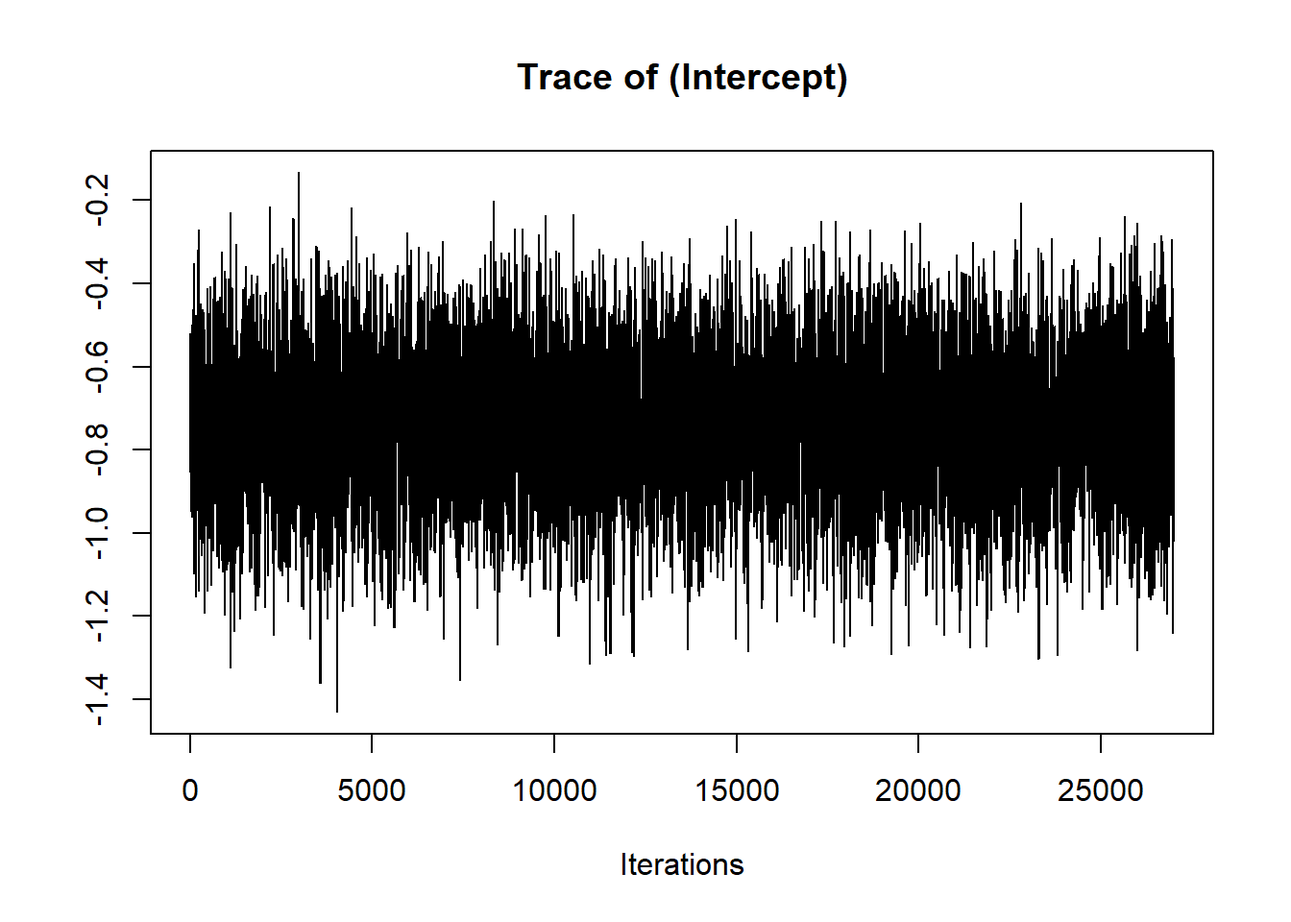
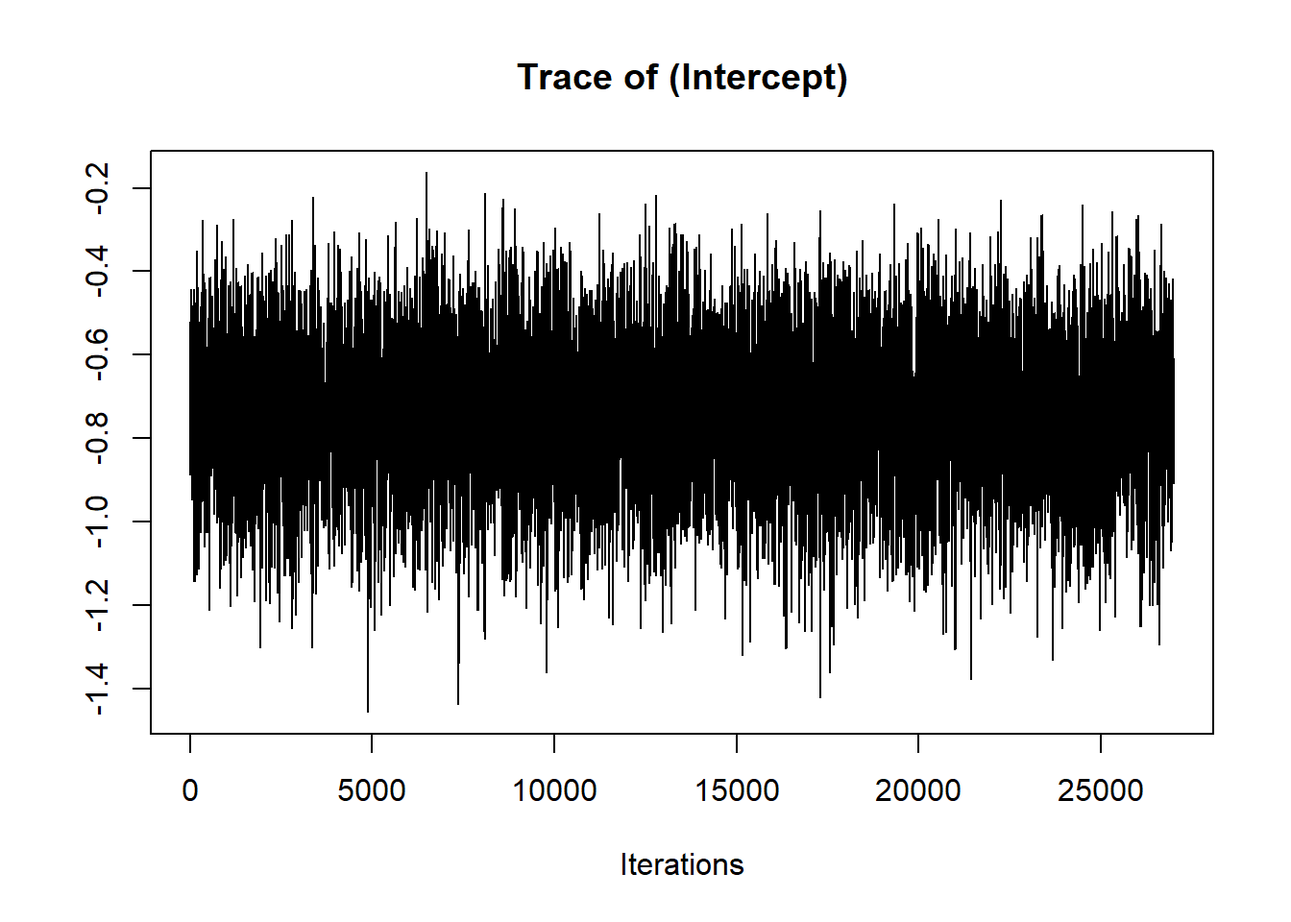
Cuatro

diff --git a/docs/Clase9.html b/docs/Clase9.html
@@ -95,9 +95,57 @@ pre > code.sourceCode > span > a:first-child::before { text-decoration: underlin
 </header>
 
 <div class="tabset-margin-container"></div><div class="panel-tabset">
-<ul class="nav nav-tabs" role="tablist"><li class="nav-item" role="presentation"><a class="nav-link active" id="tabset-2-1-tab" data-bs-toggle="tab" data-bs-target="#tabset-2-1" role="tab" aria-controls="tabset-2-1" aria-selected="true" href="">spAbundance</a></li><li class="nav-item" role="presentation"><a class="nav-link" id="tabset-2-2-tab" data-bs-toggle="tab" data-bs-target="#tabset-2-2" role="tab" aria-controls="tabset-2-2" aria-selected="false" href="">spOccupancy</a></li></ul>
+<ul class="nav nav-tabs" role="tablist"><li class="nav-item" role="presentation"><a class="nav-link active" id="tabset-2-1-tab" data-bs-toggle="tab" data-bs-target="#tabset-2-1" role="tab" aria-controls="tabset-2-1" aria-selected="true" href="">Inferencia frecuentista versus bayesiana</a></li><li class="nav-item" role="presentation"><a class="nav-link" id="tabset-2-2-tab" data-bs-toggle="tab" data-bs-target="#tabset-2-2" role="tab" aria-controls="tabset-2-2" aria-selected="false" href="">spAbundance</a></li><li class="nav-item" role="presentation"><a class="nav-link" id="tabset-2-3-tab" data-bs-toggle="tab" data-bs-target="#tabset-2-3" role="tab" aria-controls="tabset-2-3" aria-selected="false" href="">spOccupancy</a></li></ul>
 <div class="tab-content">
 <div id="tabset-2-1" class="tab-pane active" role="tabpanel" aria-labelledby="tabset-2-1-tab">
+<p>La siguiente informacion es basada del libro: Bayesian GLMs in R for Ecology, Mark Wrren &amp; Carl Smith, 2021. <a href="https://orcid.org/0000-0003-3285-0379" class="uri">https://orcid.org/0000-0003-3285-0379</a> <a href="https://www.waterstones.com/book/bayesian-glms-in-r-for-ecology/mark-warren/carl-smith/9798498164656" class="uri">https://www.waterstones.com/book/bayesian-glms-in-r-for-ecology/mark-warren/carl-smith/9798498164656</a></p>
+<ul>
+<li>La inferencia bayesiana es atribuida a Thomas Bayes, un clerigo, filosofo y estadistico del siglo XVIII. La estadistica frecuentista fue desarrollada mucho despues, en el siglo XX, por diferentes personas, incluyendo Sir Ronald Fisher y Jerzy Splawa-Neyman.</li>
+</ul>
+<section id="diferemcias-entre-inferencia-bayesiana-y-frecuentista" class="level3">
+<h3 class="anchored" data-anchor-id="diferemcias-entre-inferencia-bayesiana-y-frecuentista">Diferemcias entre inferencia Bayesiana y Frecuentista</h3>
+<table class="table">
+<colgroup>
+<col style="width: 47%">
+<col style="width: 52%">
+</colgroup>
+<thead>
+<tr class="header">
+<th>Inferencia Bayesiana</th>
+<th>Inferencia Frecuentista</th>
+</tr>
+</thead>
+<tbody>
+<tr class="odd">
+<td>Provee una medida de probabilidad de que la hipótesis sea verdadera dada los datos; P(H/D)</td>
+<td>Inferencia basada en la probabilidad (P) de los datos (D) dada la hipótesis (H); P(D/H)</td>
+</tr>
+<tr class="even">
+<td>Los parámetros de los modelos son variables aleatorias con conocimiento medible y probabilístico como una medida de “grados de creencia”</td>
+<td>La manera de implementación es probar los datos versus una hipótesis para responder las preguntas</td>
+</tr>
+<tr class="odd">
+<td>Genera distribuciones posteriores de parámetros dados los datos e información previa (prior information); los resultados proveen un panorama completo de la incertidumbre y permiten discernir los parámetros de los modelos con mayor certeza</td>
+<td>Utilizando la probabilidad (valor-P) de que los datos respalden la hipótesis nula; el valor típicamente aceptado es de 0.05.</td>
+</tr>
+<tr class="even">
+<td>La distribución posterior es proporcional a la evidencia en combinación con el conocimiento previo sobre el sistema</td>
+<td>Si la hipótesis nula es rechazada, la alternativa es aceptada</td>
+</tr>
+</tbody>
+</table>
+<blockquote class="blockquote">
+<p>La inferencia bayesiana precede a la inferencia frecuentista por aproximadamente 200 años.</p>
+</blockquote>
+<p>En la Inferencia Bayesiana:</p>
+<ul>
+<li><p>La distribución a priori representa la incertidumbre antes de observar los datos.</p></li>
+<li><p>La distribución a posteriori representa la incertidumbre actualizada después de observar los datos.</p></li>
+<li><p>Los intervalos de credibilidad bayesianos se utilizan para cuantificar la incertidumbre sobre los parámetros del modelo.</p></li>
+</ul>
+</section>
+</div>
+<div id="tabset-2-2" class="tab-pane" role="tabpanel" aria-labelledby="tabset-2-2-tab">
 <p>El paquete spAbundance ajusta modelos univariados (es decir, de una sola especie) y multivariados (es decir, de múltiples especies) de mezcla espacial N, modelos jerárquicos de muestreo de distancia y modelos mixtos generalizados lineales utilizando cadenas de Markov Monte Carlo (MCMC). Los modelos espaciales se ajustan utilizando Procesos Gaussianos de Vecino más Cercano (NNGPs) para facilitar el ajuste del modelo a grandes conjuntos de datos espaciales. spAbundance utiliza una sintaxis análoga a su “paquete hermano” spOccupancy (Doser et al.&nbsp;2022). A continuación, proporcionamos una introducción muy breve a algunas de las funcionalidades del paquete e ilustramos solo una de las funciones de ajuste del modelo. Para obtener más información, consulta los recursos referenciados al final de esta página y la pestaña “Artículos” en la parte superior de la página.</p>
 <p><a href="https://www.jeffdoser.com/files/spabundance-web/">spAbundance</a></p>
 <p><a href="https://www.jeffdoser.com/files/spabundance-web/articles/distancesampling" class="uri">https://www.jeffdoser.com/files/spabundance-web/articles/distancesampling</a></p>
@@ -107,117 +155,104 @@ pre > code.sourceCode > span > a:first-child::before { text-decoration: underlin
 <div class="tab-content">
 <div id="tabset-1-1" class="tab-pane active" role="tabpanel" aria-labelledby="tabset-1-1-tab">
 <div class="cell">
-<div class="sourceCode cell-code" id="cb1"><pre class="sourceCode r code-with-copy"><code class="sourceCode r"><span id="cb1-1"><a href="#cb1-1" aria-hidden="true" tabindex="-1"></a><span class="fu">library</span>(spAbundance)</span></code><button title="Copy to Clipboard" class="code-copy-button"><i class="bi"></i></button></pre></div>
-<div class="cell-output cell-output-stderr">
-<pre><code>Warning: package 'spAbundance' was built under R version 4.3.2</code></pre>
-</div>
-<div class="sourceCode cell-code" id="cb3"><pre class="sourceCode r code-with-copy"><code class="sourceCode r"><span id="cb3-1"><a href="#cb3-1" aria-hidden="true" tabindex="-1"></a><span class="fu">library</span>(tidyverse)</span></code><button title="Copy to Clipboard" class="code-copy-button"><i class="bi"></i></button></pre></div>
-<div class="cell-output cell-output-stderr">
-<pre><code>Warning: package 'lubridate' was built under R version 4.3.2</code></pre>
-</div>
-<div class="cell-output cell-output-stderr">
-<pre><code>── Attaching core tidyverse packages ──────────────────────── tidyverse 2.0.0 ──
-✔ dplyr     1.1.3     ✔ readr     2.1.4
-✔ forcats   1.0.0     ✔ stringr   1.5.0
-✔ ggplot2   3.4.3     ✔ tibble    3.2.1
-✔ lubridate 1.9.3     ✔ tidyr     1.3.0
-✔ purrr     1.0.2     
-── Conflicts ────────────────────────────────────────── tidyverse_conflicts() ──
-✖ dplyr::filter() masks stats::filter()
-✖ dplyr::lag()    masks stats::lag()
-ℹ Use the conflicted package (&lt;http://conflicted.r-lib.org/&gt;) to force all conflicts to become errors</code></pre>
-</div>
+<div class="sourceCode cell-code" id="cb1"><pre class="sourceCode r code-with-copy"><code class="sourceCode r"><span id="cb1-1"><a href="#cb1-1" aria-hidden="true" tabindex="-1"></a><span class="fu">library</span>(spAbundance)</span>
+<span id="cb1-2"><a href="#cb1-2" aria-hidden="true" tabindex="-1"></a><span class="fu">library</span>(tidyverse)</span></code><button title="Copy to Clipboard" class="code-copy-button"><i class="bi"></i></button></pre></div>
 </div>
 </div>
 <div id="tabset-1-2" class="tab-pane" role="tabpanel" aria-labelledby="tabset-1-2-tab">
 <div class="cell">
-<div class="sourceCode cell-code" id="cb6"><pre class="sourceCode r code-with-copy"><code class="sourceCode r"><span id="cb6-1"><a href="#cb6-1" aria-hidden="true" tabindex="-1"></a>CARPUS <span class="ot">&lt;-</span> <span class="fu">readRDS</span>(<span class="st">"data/CARPUSunmarked.rds"</span>)</span></code><button title="Copy to Clipboard" class="code-copy-button"><i class="bi"></i></button></pre></div>
+<div class="sourceCode cell-code" id="cb2"><pre class="sourceCode r code-with-copy"><code class="sourceCode r"><span id="cb2-1"><a href="#cb2-1" aria-hidden="true" tabindex="-1"></a>CARPUS <span class="ot">&lt;-</span> <span class="fu">readRDS</span>(<span class="st">"data/CARPUSunmarked.rds"</span>)</span></code><button title="Copy to Clipboard" class="code-copy-button"><i class="bi"></i></button></pre></div>
 </div>
 </div>
 <div id="tabset-1-3" class="tab-pane" role="tabpanel" aria-labelledby="tabset-1-3-tab">
 <div class="cell">
-<div class="sourceCode cell-code" id="cb7"><pre class="sourceCode r code-with-copy"><code class="sourceCode r"><span id="cb7-1"><a href="#cb7-1" aria-hidden="true" tabindex="-1"></a>CARPUS_y <span class="ot">&lt;-</span> CARPUS[,<span class="dv">12</span><span class="sc">:</span><span class="dv">14</span>]</span>
-<span id="cb7-2"><a href="#cb7-2" aria-hidden="true" tabindex="-1"></a></span>
-<span id="cb7-3"><a href="#cb7-3" aria-hidden="true" tabindex="-1"></a>CARPUS<span class="sc">$</span>Type <span class="ot">&lt;-</span> <span class="fu">factor</span>(CARPUS<span class="sc">$</span>Type)</span>
-<span id="cb7-4"><a href="#cb7-4" aria-hidden="true" tabindex="-1"></a></span>
-<span id="cb7-5"><a href="#cb7-5" aria-hidden="true" tabindex="-1"></a>covs <span class="ot">&lt;-</span> <span class="fu">list</span>(<span class="at">Elevacion =</span> CARPUS[,<span class="dv">4</span>],</span>
-<span id="cb7-6"><a href="#cb7-6" aria-hidden="true" tabindex="-1"></a>             <span class="at">Habitat =</span> CARPUS[,<span class="dv">3</span>],</span>
-<span id="cb7-7"><a href="#cb7-7" aria-hidden="true" tabindex="-1"></a>             <span class="at">AreaBasal =</span> CARPUS[,<span class="dv">5</span>])</span>
-<span id="cb7-8"><a href="#cb7-8" aria-hidden="true" tabindex="-1"></a></span>
-<span id="cb7-9"><a href="#cb7-9" aria-hidden="true" tabindex="-1"></a></span>
-<span id="cb7-10"><a href="#cb7-10" aria-hidden="true" tabindex="-1"></a>CARPUS_covs <span class="ot">&lt;-</span> <span class="fu">list</span>(<span class="at">y=</span> CARPUS_y, <span class="at">covs =</span> covs)</span></code><button title="Copy to Clipboard" class="code-copy-button"><i class="bi"></i></button></pre></div>
+<div class="sourceCode cell-code" id="cb3"><pre class="sourceCode r code-with-copy"><code class="sourceCode r"><span id="cb3-1"><a href="#cb3-1" aria-hidden="true" tabindex="-1"></a>CARPUS_y <span class="ot">&lt;-</span> CARPUS[,<span class="dv">12</span><span class="sc">:</span><span class="dv">14</span>]</span>
+<span id="cb3-2"><a href="#cb3-2" aria-hidden="true" tabindex="-1"></a></span>
+<span id="cb3-3"><a href="#cb3-3" aria-hidden="true" tabindex="-1"></a>CARPUS<span class="sc">$</span>Type <span class="ot">&lt;-</span> <span class="fu">factor</span>(CARPUS<span class="sc">$</span>Type)</span>
+<span id="cb3-4"><a href="#cb3-4" aria-hidden="true" tabindex="-1"></a></span>
+<span id="cb3-5"><a href="#cb3-5" aria-hidden="true" tabindex="-1"></a>covs <span class="ot">&lt;-</span> <span class="fu">list</span>(<span class="at">Elevacion =</span> CARPUS[,<span class="dv">4</span>],</span>
+<span id="cb3-6"><a href="#cb3-6" aria-hidden="true" tabindex="-1"></a>             <span class="at">Habitat =</span> CARPUS[,<span class="dv">3</span>],</span>
+<span id="cb3-7"><a href="#cb3-7" aria-hidden="true" tabindex="-1"></a>             <span class="at">AreaBasal =</span> CARPUS[,<span class="dv">5</span>])</span>
+<span id="cb3-8"><a href="#cb3-8" aria-hidden="true" tabindex="-1"></a></span>
+<span id="cb3-9"><a href="#cb3-9" aria-hidden="true" tabindex="-1"></a></span>
+<span id="cb3-10"><a href="#cb3-10" aria-hidden="true" tabindex="-1"></a>CARPUS_covs <span class="ot">&lt;-</span> <span class="fu">list</span>(<span class="at">y=</span> CARPUS_y, <span class="at">covs =</span> covs)</span></code><button title="Copy to Clipboard" class="code-copy-button"><i class="bi"></i></button></pre></div>
 </div>
 </div>
 <div id="tabset-1-4" class="tab-pane" role="tabpanel" aria-labelledby="tabset-1-4-tab">
 <div class="cell">
-<div class="sourceCode cell-code" id="cb8"><pre class="sourceCode r code-with-copy"><code class="sourceCode r"><span id="cb8-1"><a href="#cb8-1" aria-hidden="true" tabindex="-1"></a>out <span class="ot">&lt;-</span> <span class="fu">abund</span>(<span class="at">formula =</span> <span class="sc">~</span> <span class="dv">1</span>,</span>
-<span id="cb8-2"><a href="#cb8-2" aria-hidden="true" tabindex="-1"></a>             <span class="at">data =</span> CARPUS_covs,</span>
-<span id="cb8-3"><a href="#cb8-3" aria-hidden="true" tabindex="-1"></a>             <span class="at">n.rep =</span> <span class="dv">3</span>, <span class="at">family =</span> <span class="st">"Poisson"</span>,</span>
-<span id="cb8-4"><a href="#cb8-4" aria-hidden="true" tabindex="-1"></a>             <span class="at">n.batch =</span> <span class="dv">300</span>, <span class="at">batch.length =</span> <span class="dv">100</span>)</span>
-<span id="cb8-5"><a href="#cb8-5" aria-hidden="true" tabindex="-1"></a></span>
-<span id="cb8-6"><a href="#cb8-6" aria-hidden="true" tabindex="-1"></a>out1 <span class="ot">&lt;-</span> <span class="fu">abund</span>(<span class="at">formula =</span> <span class="sc">~</span> Elevacion,</span>
-<span id="cb8-7"><a href="#cb8-7" aria-hidden="true" tabindex="-1"></a>             <span class="at">data =</span> CARPUS_covs,</span>
-<span id="cb8-8"><a href="#cb8-8" aria-hidden="true" tabindex="-1"></a>             <span class="at">n.rep =</span> <span class="dv">3</span>, <span class="at">family =</span> <span class="st">"Poisson"</span>,</span>
-<span id="cb8-9"><a href="#cb8-9" aria-hidden="true" tabindex="-1"></a>             <span class="at">n.batch =</span> <span class="dv">300</span>, <span class="at">batch.length =</span> <span class="dv">100</span>)</span>
-<span id="cb8-10"><a href="#cb8-10" aria-hidden="true" tabindex="-1"></a></span>
-<span id="cb8-11"><a href="#cb8-11" aria-hidden="true" tabindex="-1"></a>out2 <span class="ot">&lt;-</span> <span class="fu">abund</span>(<span class="at">formula =</span> <span class="sc">~</span> Habitat ,</span>
-<span id="cb8-12"><a href="#cb8-12" aria-hidden="true" tabindex="-1"></a>             <span class="at">data =</span> CARPUS_covs,</span>
-<span id="cb8-13"><a href="#cb8-13" aria-hidden="true" tabindex="-1"></a>             <span class="at">n.rep =</span> <span class="dv">3</span>, <span class="at">family =</span> <span class="st">"Poisson"</span>,</span>
-<span id="cb8-14"><a href="#cb8-14" aria-hidden="true" tabindex="-1"></a>             <span class="at">n.batch =</span> <span class="dv">300</span>, <span class="at">batch.length =</span> <span class="dv">100</span>)</span>
-<span id="cb8-15"><a href="#cb8-15" aria-hidden="true" tabindex="-1"></a></span>
-<span id="cb8-16"><a href="#cb8-16" aria-hidden="true" tabindex="-1"></a>out3 <span class="ot">&lt;-</span> <span class="fu">abund</span>(<span class="at">formula =</span> <span class="sc">~</span> AreaBasal,</span>
-<span id="cb8-17"><a href="#cb8-17" aria-hidden="true" tabindex="-1"></a>             <span class="at">data =</span> CARPUS_covs,</span>
-<span id="cb8-18"><a href="#cb8-18" aria-hidden="true" tabindex="-1"></a>             <span class="at">n.rep =</span> <span class="dv">3</span>, <span class="at">family =</span> <span class="st">"Poisson"</span>,</span>
-<span id="cb8-19"><a href="#cb8-19" aria-hidden="true" tabindex="-1"></a>             <span class="at">n.batch =</span> <span class="dv">300</span>, <span class="at">batch.length =</span> <span class="dv">100</span>)</span></code><button title="Copy to Clipboard" class="code-copy-button"><i class="bi"></i></button></pre></div>
+<div class="sourceCode cell-code" id="cb4"><pre class="sourceCode r code-with-copy"><code class="sourceCode r"><span id="cb4-1"><a href="#cb4-1" aria-hidden="true" tabindex="-1"></a>out <span class="ot">&lt;-</span> <span class="fu">abund</span>(<span class="at">formula =</span> <span class="sc">~</span> <span class="dv">1</span>,</span>
+<span id="cb4-2"><a href="#cb4-2" aria-hidden="true" tabindex="-1"></a>             <span class="at">data =</span> CARPUS_covs,</span>
+<span id="cb4-3"><a href="#cb4-3" aria-hidden="true" tabindex="-1"></a>             <span class="at">n.rep =</span> <span class="dv">1000</span>, <span class="at">family =</span> <span class="st">"Poisson"</span>,</span>
+<span id="cb4-4"><a href="#cb4-4" aria-hidden="true" tabindex="-1"></a>             <span class="at">n.batch =</span> <span class="dv">300</span>, <span class="at">batch.length =</span> <span class="dv">100</span>)</span>
+<span id="cb4-5"><a href="#cb4-5" aria-hidden="true" tabindex="-1"></a></span>
+<span id="cb4-6"><a href="#cb4-6" aria-hidden="true" tabindex="-1"></a>out1 <span class="ot">&lt;-</span> <span class="fu">abund</span>(<span class="at">formula =</span> <span class="sc">~</span> Elevacion,</span>
+<span id="cb4-7"><a href="#cb4-7" aria-hidden="true" tabindex="-1"></a>             <span class="at">data =</span> CARPUS_covs,</span>
+<span id="cb4-8"><a href="#cb4-8" aria-hidden="true" tabindex="-1"></a>             <span class="at">n.rep =</span> <span class="dv">1000</span>, <span class="at">family =</span> <span class="st">"Poisson"</span>,</span>
+<span id="cb4-9"><a href="#cb4-9" aria-hidden="true" tabindex="-1"></a>             <span class="at">n.batch =</span> <span class="dv">300</span>, <span class="at">batch.length =</span> <span class="dv">100</span>)</span>
+<span id="cb4-10"><a href="#cb4-10" aria-hidden="true" tabindex="-1"></a></span>
+<span id="cb4-11"><a href="#cb4-11" aria-hidden="true" tabindex="-1"></a>out2 <span class="ot">&lt;-</span> <span class="fu">abund</span>(<span class="at">formula =</span> <span class="sc">~</span> Habitat ,</span>
+<span id="cb4-12"><a href="#cb4-12" aria-hidden="true" tabindex="-1"></a>             <span class="at">data =</span> CARPUS_covs,</span>
+<span id="cb4-13"><a href="#cb4-13" aria-hidden="true" tabindex="-1"></a>             <span class="at">n.rep =</span> <span class="dv">1000</span>, <span class="at">family =</span> <span class="st">"Poisson"</span>,</span>
+<span id="cb4-14"><a href="#cb4-14" aria-hidden="true" tabindex="-1"></a>             <span class="at">n.batch =</span> <span class="dv">300</span>, <span class="at">batch.length =</span> <span class="dv">100</span>)</span>
+<span id="cb4-15"><a href="#cb4-15" aria-hidden="true" tabindex="-1"></a></span>
+<span id="cb4-16"><a href="#cb4-16" aria-hidden="true" tabindex="-1"></a>out3 <span class="ot">&lt;-</span> <span class="fu">abund</span>(<span class="at">formula =</span> <span class="sc">~</span> AreaBasal,</span>
+<span id="cb4-17"><a href="#cb4-17" aria-hidden="true" tabindex="-1"></a>             <span class="at">data =</span> CARPUS_covs,</span>
+<span id="cb4-18"><a href="#cb4-18" aria-hidden="true" tabindex="-1"></a>             <span class="at">n.rep =</span> <span class="dv">1000</span>, <span class="at">family =</span> <span class="st">"Poisson"</span>,</span>
+<span id="cb4-19"><a href="#cb4-19" aria-hidden="true" tabindex="-1"></a>             <span class="at">n.batch =</span> <span class="dv">300</span>, <span class="at">batch.length =</span> <span class="dv">100</span>)</span></code><button title="Copy to Clipboard" class="code-copy-button"><i class="bi"></i></button></pre></div>
 </div>
 </div>
 <div id="tabset-1-5" class="tab-pane" role="tabpanel" aria-labelledby="tabset-1-5-tab">
 <div class="cell">
-<div class="sourceCode cell-code" id="cb9"><pre class="sourceCode r code-with-copy"><code class="sourceCode r"><span id="cb9-1"><a href="#cb9-1" aria-hidden="true" tabindex="-1"></a><span class="fu">waicAbund</span>(out)</span></code><button title="Copy to Clipboard" class="code-copy-button"><i class="bi"></i></button></pre></div>
+<div class="sourceCode cell-code" id="cb5"><pre class="sourceCode r code-with-copy"><code class="sourceCode r"><span id="cb5-1"><a href="#cb5-1" aria-hidden="true" tabindex="-1"></a><span class="fu">waicAbund</span>(out)</span></code><button title="Copy to Clipboard" class="code-copy-button"><i class="bi"></i></button></pre></div>
 <div class="cell-output cell-output-stdout">
-<pre><code>       elpd          pD        WAIC 
--66.5569876   0.9507045 135.0153841 </code></pre>
+<pre><code>      elpd         pD       WAIC 
+-66.557835   0.973255 135.062180 </code></pre>
 </div>
-<div class="sourceCode cell-code" id="cb11"><pre class="sourceCode r code-with-copy"><code class="sourceCode r"><span id="cb11-1"><a href="#cb11-1" aria-hidden="true" tabindex="-1"></a><span class="fu">waicAbund</span>(out1)</span></code><button title="Copy to Clipboard" class="code-copy-button"><i class="bi"></i></button></pre></div>
+<div class="sourceCode cell-code" id="cb7"><pre class="sourceCode r code-with-copy"><code class="sourceCode r"><span id="cb7-1"><a href="#cb7-1" aria-hidden="true" tabindex="-1"></a><span class="fu">waicAbund</span>(out1)</span></code><button title="Copy to Clipboard" class="code-copy-button"><i class="bi"></i></button></pre></div>
 <div class="cell-output cell-output-stdout">
 <pre><code>     elpd        pD      WAIC 
--418.0761 1902.5492 4641.2504 </code></pre>
+-720.2572 2700.6037 6841.7218 </code></pre>
 </div>
-<div class="sourceCode cell-code" id="cb13"><pre class="sourceCode r code-with-copy"><code class="sourceCode r"><span id="cb13-1"><a href="#cb13-1" aria-hidden="true" tabindex="-1"></a><span class="fu">waicAbund</span>(out2)</span></code><button title="Copy to Clipboard" class="code-copy-button"><i class="bi"></i></button></pre></div>
+<div class="sourceCode cell-code" id="cb9"><pre class="sourceCode r code-with-copy"><code class="sourceCode r"><span id="cb9-1"><a href="#cb9-1" aria-hidden="true" tabindex="-1"></a><span class="fu">waicAbund</span>(out2)</span></code><button title="Copy to Clipboard" class="code-copy-button"><i class="bi"></i></button></pre></div>
 <div class="cell-output cell-output-stdout">
 <pre><code>      elpd         pD       WAIC 
--64.666443   1.859677 133.052241 </code></pre>
+-64.663467   1.869152 133.065237 </code></pre>
 </div>
-<div class="sourceCode cell-code" id="cb15"><pre class="sourceCode r code-with-copy"><code class="sourceCode r"><span id="cb15-1"><a href="#cb15-1" aria-hidden="true" tabindex="-1"></a><span class="fu">waicAbund</span>(out3)</span></code><button title="Copy to Clipboard" class="code-copy-button"><i class="bi"></i></button></pre></div>
+<div class="sourceCode cell-code" id="cb11"><pre class="sourceCode r code-with-copy"><code class="sourceCode r"><span id="cb11-1"><a href="#cb11-1" aria-hidden="true" tabindex="-1"></a><span class="fu">waicAbund</span>(out3)</span></code><button title="Copy to Clipboard" class="code-copy-button"><i class="bi"></i></button></pre></div>
 <div class="cell-output cell-output-stdout">
 <pre><code>      elpd         pD       WAIC 
--61.105451   1.319449 124.849799 </code></pre>
+-61.081200   1.244797 124.651995 </code></pre>
 </div>
 </div>
+<ul>
+<li><p>elpd: Es el logaritmo de la densidad predictiva efectiva, que es una medida de la bondad de ajuste del modelo. Cuanto mayor sea el valor de elpd, mejor se ajusta el modelo a los datos observados.</p></li>
+<li><p>pD: Es el número efectivo de parámetros del modelo. Indica la complejidad del modelo y se utiliza para penalizar la complejidad del modelo en el cálculo del WAIC. Un valor más alto de pD indica un modelo más complejo.</p></li>
+<li><p>WAIC: Es el criterio de información Watanabe-Akaike. Es una medida de la calidad predictiva del modelo que tiene en cuenta tanto la bondad de ajuste como la complejidad del modelo. Cuanto más bajo sea el valor de WAIC, mejor será el modelo en términos de balance entre ajuste y complejidad.</p></li>
+</ul>
 </div>
 <div id="tabset-1-6" class="tab-pane" role="tabpanel" aria-labelledby="tabset-1-6-tab">
 <div class="cell">
-<div class="sourceCode cell-code" id="cb17"><pre class="sourceCode r code-with-copy"><code class="sourceCode r"><span id="cb17-1"><a href="#cb17-1" aria-hidden="true" tabindex="-1"></a><span class="fu">summary</span>(out3)</span></code><button title="Copy to Clipboard" class="code-copy-button"><i class="bi"></i></button></pre></div>
+<div class="sourceCode cell-code" id="cb13"><pre class="sourceCode r code-with-copy"><code class="sourceCode r"><span id="cb13-1"><a href="#cb13-1" aria-hidden="true" tabindex="-1"></a><span class="fu">summary</span>(out3)</span></code><button title="Copy to Clipboard" class="code-copy-button"><i class="bi"></i></button></pre></div>
 <div class="cell-output cell-output-stdout">
 <pre><code>
 Call:
 abund(formula = ~AreaBasal, data = CARPUS_covs, n.batch = 300, 
-    batch.length = 100, family = "Poisson", n.report = 3)
+    batch.length = 100, family = "Poisson", n.report = 1000)
 
 Samples per Chain: 30000
 Burn-in: 3000
 Thinning Rate: 1
 Number of Chains: 1
 Total Posterior Samples: 27000
-Run Time (min): 0.0355
+Run Time (min): 0.036
 
 Abundance (log scale): 
                Mean     SD    2.5%     50%   97.5% Rhat ESS
-(Intercept) -1.5260 0.3401 -2.1920 -1.5241 -0.8771   NA 263
-AreaBasal    0.0364 0.0120  0.0136  0.0368  0.0589   NA 217</code></pre>
+(Intercept) -1.5132 0.3202 -2.1711 -1.5055 -0.8892   NA 272
+AreaBasal    0.0359 0.0112  0.0126  0.0361  0.0574   NA 205</code></pre>
 </div>
-<div class="sourceCode cell-code" id="cb19"><pre class="sourceCode r code-with-copy"><code class="sourceCode r"><span id="cb19-1"><a href="#cb19-1" aria-hidden="true" tabindex="-1"></a><span class="co"># Abundance regression coefficients</span></span>
-<span id="cb19-2"><a href="#cb19-2" aria-hidden="true" tabindex="-1"></a><span class="fu">plot</span>(out, <span class="at">param =</span> <span class="st">'beta'</span>, <span class="at">density =</span> <span class="cn">FALSE</span>)</span></code><button title="Copy to Clipboard" class="code-copy-button"><i class="bi"></i></button></pre></div>
+<div class="sourceCode cell-code" id="cb15"><pre class="sourceCode r code-with-copy"><code class="sourceCode r"><span id="cb15-1"><a href="#cb15-1" aria-hidden="true" tabindex="-1"></a><span class="co"># Abundance regression coefficients</span></span>
+<span id="cb15-2"><a href="#cb15-2" aria-hidden="true" tabindex="-1"></a><span class="fu">plot</span>(out, <span class="at">param =</span> <span class="st">'beta'</span>, <span class="at">density =</span> <span class="cn">FALSE</span>)</span></code><button title="Copy to Clipboard" class="code-copy-button"><i class="bi"></i></button></pre></div>
 <div class="cell-output-display">
 <p><img src="Clase9_files/figure-html/unnamed-chunk-6-1.png" class="img-fluid" width="672"></p>
 </div>
@@ -225,36 +260,36 @@ AreaBasal    0.0364 0.0120  0.0136  0.0368  0.0589   NA 217</code></pre>
 </div>
 <div id="tabset-1-7" class="tab-pane" role="tabpanel" aria-labelledby="tabset-1-7-tab">
 <div class="cell">
-<div class="sourceCode cell-code" id="cb20"><pre class="sourceCode r code-with-copy"><code class="sourceCode r"><span id="cb20-1"><a href="#cb20-1" aria-hidden="true" tabindex="-1"></a>AreaBasal <span class="ot">&lt;-</span> <span class="fu">data.frame</span>(<span class="at">AreaBasal =</span> <span class="fu">seq</span>(<span class="fu">min</span>(CARPUS<span class="sc">$</span>Area_Basal, <span class="at">na.rm =</span> <span class="cn">TRUE</span>), </span>
-<span id="cb20-2"><a href="#cb20-2" aria-hidden="true" tabindex="-1"></a>                                  <span class="fu">max</span>(CARPUS<span class="sc">$</span>Area_Basal, <span class="at">na.rm =</span> <span class="cn">TRUE</span>), </span>
-<span id="cb20-3"><a href="#cb20-3" aria-hidden="true" tabindex="-1"></a>                                  <span class="at">length.out =</span> <span class="dv">100</span>))</span>
-<span id="cb20-4"><a href="#cb20-4" aria-hidden="true" tabindex="-1"></a></span>
-<span id="cb20-5"><a href="#cb20-5" aria-hidden="true" tabindex="-1"></a>AreaBasal.s <span class="ot">&lt;-</span> AreaBasal <span class="sc">-</span> <span class="fu">mean</span>(CARPUS<span class="sc">$</span>Area_Basal, <span class="at">na.rm =</span> <span class="cn">TRUE</span>) <span class="sc">/</span> </span>
-<span id="cb20-6"><a href="#cb20-6" aria-hidden="true" tabindex="-1"></a>                   <span class="fu">sd</span>(CARPUS<span class="sc">$</span>Area_Basal, <span class="at">na.rm =</span> <span class="cn">TRUE</span>)</span>
-<span id="cb20-7"><a href="#cb20-7" aria-hidden="true" tabindex="-1"></a></span>
-<span id="cb20-8"><a href="#cb20-8" aria-hidden="true" tabindex="-1"></a></span>
-<span id="cb20-9"><a href="#cb20-9" aria-hidden="true" tabindex="-1"></a>X<span class="fl">.0</span> <span class="ot">&lt;-</span> <span class="fu">as.matrix</span>(<span class="fu">data.frame</span>(<span class="at">intercept =</span> <span class="dv">1</span>, <span class="at">AreaBasal =</span> AreaBasal.s))</span>
-<span id="cb20-10"><a href="#cb20-10" aria-hidden="true" tabindex="-1"></a></span>
-<span id="cb20-11"><a href="#cb20-11" aria-hidden="true" tabindex="-1"></a>out.pred <span class="ot">&lt;-</span> <span class="fu">predict</span>(out3, X<span class="fl">.0</span>, <span class="at">ignore.RE =</span> <span class="cn">TRUE</span>)</span>
-<span id="cb20-12"><a href="#cb20-12" aria-hidden="true" tabindex="-1"></a></span>
-<span id="cb20-13"><a href="#cb20-13" aria-hidden="true" tabindex="-1"></a><span class="co"># Get the lower bound, median, and 95% credible interval</span></span>
-<span id="cb20-14"><a href="#cb20-14" aria-hidden="true" tabindex="-1"></a>mu.<span class="fl">0.</span>quants <span class="ot">&lt;-</span> <span class="fu">apply</span>(out.pred<span class="sc">$</span>mu.<span class="fl">0.</span>samples, <span class="dv">2</span>, quantile, </span>
-<span id="cb20-15"><a href="#cb20-15" aria-hidden="true" tabindex="-1"></a>                     <span class="at">prob =</span> <span class="fu">c</span>(<span class="fl">0.025</span>, <span class="fl">0.5</span>, <span class="fl">0.975</span>))</span>
-<span id="cb20-16"><a href="#cb20-16" aria-hidden="true" tabindex="-1"></a></span>
-<span id="cb20-17"><a href="#cb20-17" aria-hidden="true" tabindex="-1"></a>mu.plot.dat <span class="ot">&lt;-</span> <span class="fu">data.frame</span>(<span class="at">mu.med =</span> mu.<span class="fl">0.</span>quants[<span class="dv">2</span>, ], </span>
-<span id="cb20-18"><a href="#cb20-18" aria-hidden="true" tabindex="-1"></a>                          <span class="at">mu.low =</span> mu.<span class="fl">0.</span>quants[<span class="dv">1</span>, ], </span>
-<span id="cb20-19"><a href="#cb20-19" aria-hidden="true" tabindex="-1"></a>                          <span class="at">mu.high =</span> mu.<span class="fl">0.</span>quants[<span class="dv">3</span>, ], </span>
-<span id="cb20-20"><a href="#cb20-20" aria-hidden="true" tabindex="-1"></a>                          <span class="at">AreaBasal =</span> AreaBasal)</span></code><button title="Copy to Clipboard" class="code-copy-button"><i class="bi"></i></button></pre></div>
+<div class="sourceCode cell-code" id="cb16"><pre class="sourceCode r code-with-copy"><code class="sourceCode r"><span id="cb16-1"><a href="#cb16-1" aria-hidden="true" tabindex="-1"></a>AreaBasal <span class="ot">&lt;-</span> <span class="fu">data.frame</span>(<span class="at">AreaBasal =</span> <span class="fu">seq</span>(<span class="fu">min</span>(CARPUS<span class="sc">$</span>Area_Basal, <span class="at">na.rm =</span> <span class="cn">TRUE</span>), </span>
+<span id="cb16-2"><a href="#cb16-2" aria-hidden="true" tabindex="-1"></a>                                  <span class="fu">max</span>(CARPUS<span class="sc">$</span>Area_Basal, <span class="at">na.rm =</span> <span class="cn">TRUE</span>), </span>
+<span id="cb16-3"><a href="#cb16-3" aria-hidden="true" tabindex="-1"></a>                                  <span class="at">length.out =</span> <span class="dv">100</span>))</span>
+<span id="cb16-4"><a href="#cb16-4" aria-hidden="true" tabindex="-1"></a></span>
+<span id="cb16-5"><a href="#cb16-5" aria-hidden="true" tabindex="-1"></a>AreaBasal.s <span class="ot">&lt;-</span> AreaBasal <span class="sc">-</span> <span class="fu">mean</span>(CARPUS<span class="sc">$</span>Area_Basal, <span class="at">na.rm =</span> <span class="cn">TRUE</span>) <span class="sc">/</span> </span>
+<span id="cb16-6"><a href="#cb16-6" aria-hidden="true" tabindex="-1"></a>                   <span class="fu">sd</span>(CARPUS<span class="sc">$</span>Area_Basal, <span class="at">na.rm =</span> <span class="cn">TRUE</span>)</span>
+<span id="cb16-7"><a href="#cb16-7" aria-hidden="true" tabindex="-1"></a></span>
+<span id="cb16-8"><a href="#cb16-8" aria-hidden="true" tabindex="-1"></a></span>
+<span id="cb16-9"><a href="#cb16-9" aria-hidden="true" tabindex="-1"></a>X<span class="fl">.0</span> <span class="ot">&lt;-</span> <span class="fu">as.matrix</span>(<span class="fu">data.frame</span>(<span class="at">intercept =</span> <span class="dv">1</span>, <span class="at">AreaBasal =</span> AreaBasal.s))</span>
+<span id="cb16-10"><a href="#cb16-10" aria-hidden="true" tabindex="-1"></a></span>
+<span id="cb16-11"><a href="#cb16-11" aria-hidden="true" tabindex="-1"></a>out.pred <span class="ot">&lt;-</span> <span class="fu">predict</span>(out3, X<span class="fl">.0</span>, <span class="at">ignore.RE =</span> <span class="cn">TRUE</span>)</span>
+<span id="cb16-12"><a href="#cb16-12" aria-hidden="true" tabindex="-1"></a></span>
+<span id="cb16-13"><a href="#cb16-13" aria-hidden="true" tabindex="-1"></a><span class="co"># Get the lower bound, median, and 95% credible interval</span></span>
+<span id="cb16-14"><a href="#cb16-14" aria-hidden="true" tabindex="-1"></a>mu.<span class="fl">0.</span>quants <span class="ot">&lt;-</span> <span class="fu">apply</span>(out.pred<span class="sc">$</span>mu.<span class="fl">0.</span>samples, <span class="dv">2</span>, quantile, </span>
+<span id="cb16-15"><a href="#cb16-15" aria-hidden="true" tabindex="-1"></a>                     <span class="at">prob =</span> <span class="fu">c</span>(<span class="fl">0.025</span>, <span class="fl">0.5</span>, <span class="fl">0.975</span>))</span>
+<span id="cb16-16"><a href="#cb16-16" aria-hidden="true" tabindex="-1"></a></span>
+<span id="cb16-17"><a href="#cb16-17" aria-hidden="true" tabindex="-1"></a>mu.plot.dat <span class="ot">&lt;-</span> <span class="fu">data.frame</span>(<span class="at">mu.med =</span> mu.<span class="fl">0.</span>quants[<span class="dv">2</span>, ], </span>
+<span id="cb16-18"><a href="#cb16-18" aria-hidden="true" tabindex="-1"></a>                          <span class="at">mu.low =</span> mu.<span class="fl">0.</span>quants[<span class="dv">1</span>, ], </span>
+<span id="cb16-19"><a href="#cb16-19" aria-hidden="true" tabindex="-1"></a>                          <span class="at">mu.high =</span> mu.<span class="fl">0.</span>quants[<span class="dv">3</span>, ], </span>
+<span id="cb16-20"><a href="#cb16-20" aria-hidden="true" tabindex="-1"></a>                          <span class="at">AreaBasal =</span> AreaBasal)</span></code><button title="Copy to Clipboard" class="code-copy-button"><i class="bi"></i></button></pre></div>
 </div>
 </div>
 <div id="tabset-1-8" class="tab-pane" role="tabpanel" aria-labelledby="tabset-1-8-tab">
 <div class="cell">
-<div class="sourceCode cell-code" id="cb21"><pre class="sourceCode r code-with-copy"><code class="sourceCode r"><span id="cb21-1"><a href="#cb21-1" aria-hidden="true" tabindex="-1"></a><span class="fu">ggplot</span>(mu.plot.dat, <span class="fu">aes</span>(<span class="at">x =</span> AreaBasal, <span class="at">y =</span> mu.med)) <span class="sc">+</span> </span>
-<span id="cb21-2"><a href="#cb21-2" aria-hidden="true" tabindex="-1"></a>  <span class="fu">geom_ribbon</span>(<span class="fu">aes</span>(<span class="at">ymin =</span> mu.low, <span class="at">ymax =</span> mu.high), <span class="at">fill =</span> <span class="st">'lightblue'</span>, <span class="at">alpha =</span> <span class="fl">0.5</span>) <span class="sc">+</span></span>
-<span id="cb21-3"><a href="#cb21-3" aria-hidden="true" tabindex="-1"></a>  <span class="fu">geom_line</span>() <span class="sc">+</span> </span>
-<span id="cb21-4"><a href="#cb21-4" aria-hidden="true" tabindex="-1"></a>  <span class="fu">theme_bw</span>() <span class="sc">+</span> </span>
-<span id="cb21-5"><a href="#cb21-5" aria-hidden="true" tabindex="-1"></a>  <span class="fu">labs</span>(<span class="at">x =</span> <span class="st">'Covariate'</span>, <span class="at">y =</span> <span class="st">'Expected abundance'</span>) <span class="sc">+</span></span>
-<span id="cb21-6"><a href="#cb21-6" aria-hidden="true" tabindex="-1"></a>  <span class="fu">theme_classic</span>()</span></code><button title="Copy to Clipboard" class="code-copy-button"><i class="bi"></i></button></pre></div>
+<div class="sourceCode cell-code" id="cb17"><pre class="sourceCode r code-with-copy"><code class="sourceCode r"><span id="cb17-1"><a href="#cb17-1" aria-hidden="true" tabindex="-1"></a><span class="fu">ggplot</span>(mu.plot.dat, <span class="fu">aes</span>(<span class="at">x =</span> AreaBasal, <span class="at">y =</span> mu.med)) <span class="sc">+</span> </span>
+<span id="cb17-2"><a href="#cb17-2" aria-hidden="true" tabindex="-1"></a>  <span class="fu">geom_ribbon</span>(<span class="fu">aes</span>(<span class="at">ymin =</span> mu.low, <span class="at">ymax =</span> mu.high), <span class="at">fill =</span> <span class="st">'lightblue'</span>, <span class="at">alpha =</span> <span class="fl">0.5</span>) <span class="sc">+</span></span>
+<span id="cb17-3"><a href="#cb17-3" aria-hidden="true" tabindex="-1"></a>  <span class="fu">geom_line</span>() <span class="sc">+</span> </span>
+<span id="cb17-4"><a href="#cb17-4" aria-hidden="true" tabindex="-1"></a>  <span class="fu">theme_bw</span>() <span class="sc">+</span> </span>
+<span id="cb17-5"><a href="#cb17-5" aria-hidden="true" tabindex="-1"></a>  <span class="fu">labs</span>(<span class="at">x =</span> <span class="st">'Covariate'</span>, <span class="at">y =</span> <span class="st">'Expected abundance'</span>) <span class="sc">+</span></span>
+<span id="cb17-6"><a href="#cb17-6" aria-hidden="true" tabindex="-1"></a>  <span class="fu">theme_classic</span>()</span></code><button title="Copy to Clipboard" class="code-copy-button"><i class="bi"></i></button></pre></div>
 <div class="cell-output-display">
 <p><img src="Clase9_files/figure-html/unnamed-chunk-8-1.png" class="img-fluid" width="672"></p>
 </div>
@@ -263,7 +298,7 @@ AreaBasal    0.0364 0.0120  0.0136  0.0368  0.0589   NA 217</code></pre>
 </div>
 </div>
 </div>
-<div id="tabset-2-2" class="tab-pane" role="tabpanel" aria-labelledby="tabset-2-2-tab">
+<div id="tabset-2-3" class="tab-pane" role="tabpanel" aria-labelledby="tabset-2-3-tab">
 <p>spOccupancy ajusta modelos de ocupación espacial de especies individuales, múltiples especies e integrados utilizando el método de Monte Carlo por cadenas de Markov (MCMC). Los modelos se ajustan utilizando la técnica de aumento de datos Pólya-Gamma. Los modelos espaciales se ajustan utilizando procesos gaussianos o procesos gaussianos de vecinos más cercanos (NNGP) para conjuntos de datos espaciales grandes. El paquete proporciona funcionalidad para la integración de datos de ocupación de múltiples especies individuales utilizando un marco de verosimilitud conjunta. Para modelos de múltiples especies, spOccupancy proporciona funciones para tener en cuenta las correlaciones residuales entre especies en un marco de modelo de distribución de especies conjuntas mientras se tiene en cuenta la detección imperfecta. A partir de la versión 0.4.0, spOccupancy proporciona funciones para modelos de ocupación de especies individuales de múltiples temporadas (es decir, espacio-temporales). A continuación, proporcionamos una introducción muy breve a algunas de las funcionalidades del paquete, e ilustramos solo una de las funciones de ajuste de modelos. Para obtener más información, consulte los recursos referenciados al final de esta página.</p>
 <p><a href="https://www.jeffdoser.com/files/spoccupancy-web/articles/modelfitting" class="uri">https://www.jeffdoser.com/files/spoccupancy-web/articles/modelfitting</a></p>
 </div>
